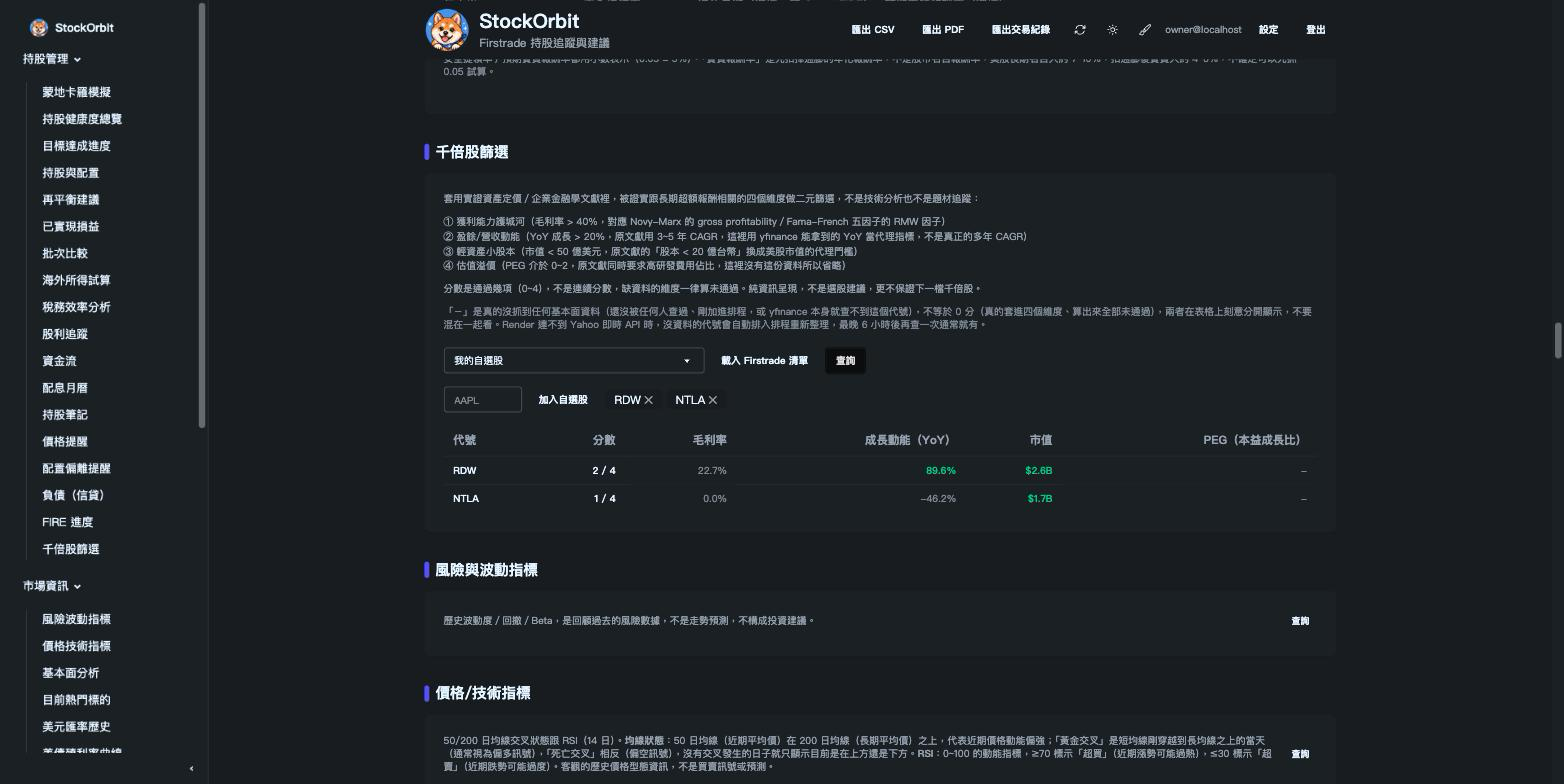
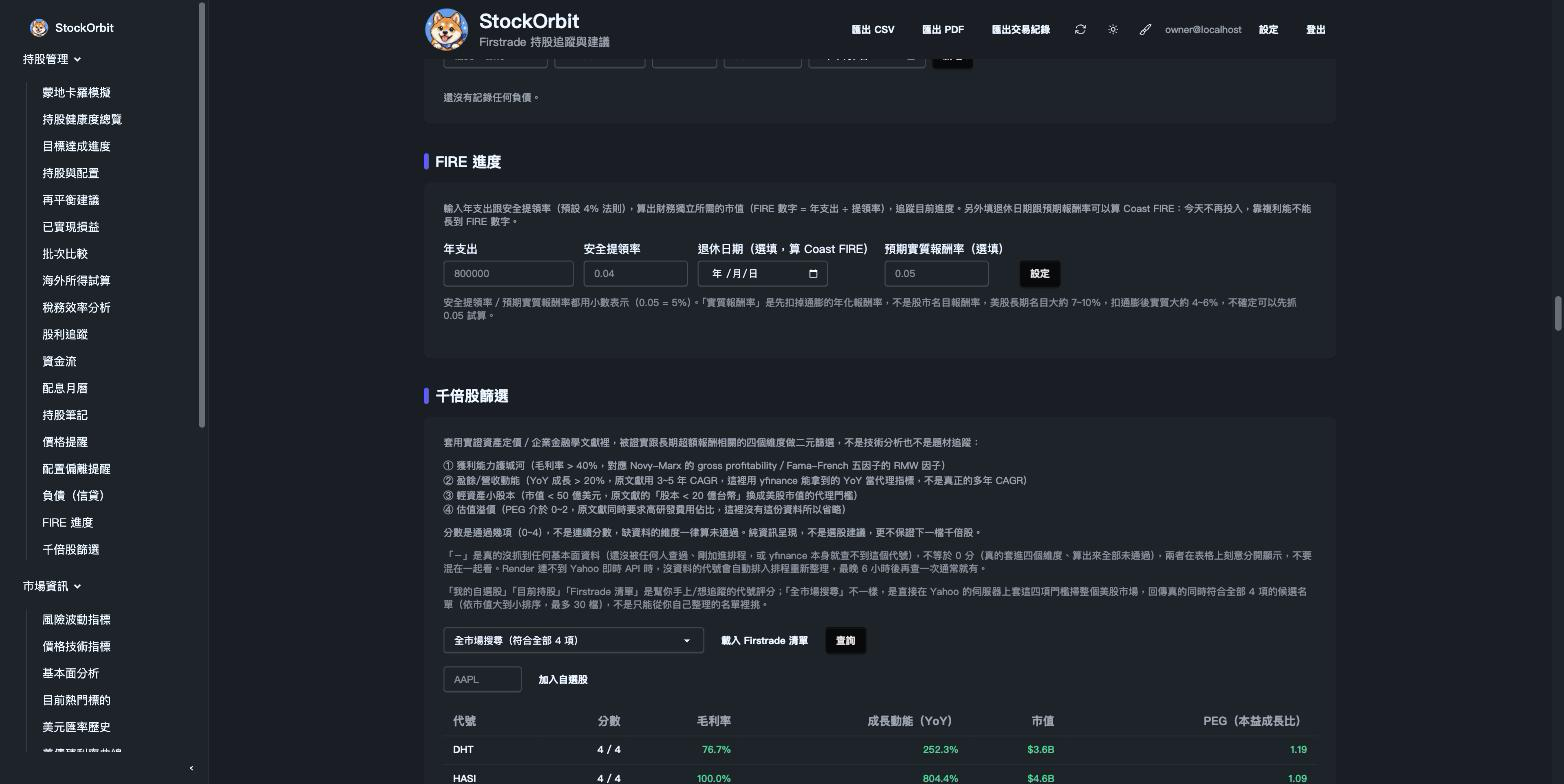
千倍股篩選新增「全市場搜尋」（issue #356） (#357)
使用者回報：千倍股篩選只能評分自己整理的清單（自選股/持股/Firstrade
清單），但一開始的需求是「根據最新的狀況找到所有股票裡符合千倍股條
件的」- 應該要有能掃全市場的功能，不是只能從自己手動整理的名單裡挑。

yfinance 的 EquityQuery screener 實際支援這次篩選用到的所有欄位
（grossprofitmargin.lasttwelvemonths、intradaymarketcap、
totalrevenues1yrgrowth.lasttwelvemonths、pegratio_5y），可以把四項
門檻直接組成一個查詢丟給 Yahoo 的伺服器端篩選，不用自己抓全市場報價
回來算：

- app/infrastructure/market_data.py 新增 screen_equities()（唯一
  import yfinance 的地方，同既有慣例）。
- app/domain/screening/moonshot.py 新增 market_screen_symbols()，把
  這個檔案既有的門檻常數（0.4）轉成 Yahoo screener 要的百分比尺度
  （40）。
- 新增 /api/moonshot-market-screen 端點，掃到的候選代號走跟清單篩選
  同一套評分/快取/顯示流程（抽出共用的 _score_symbols_with_fundamentals()）。
- 清單下拉選單多一個「全市場搜尋（符合全部 4 項）」選項。

實測：3 秒內掃出真實的 4/4 候選名單（DHT、HASI、SEZL 等），確認可行。

diff --git a/app/templates/sections/moonshot_screen.html b/app/templates/sections/moonshot_screen.html
@@ -18,11 +18,15 @@
       <p class="text-xs opacity-50 mt-1">
         「－」是真的沒抓到任何基本面資料（還沒被任何人查過、剛加進排程，或 yfinance 本身就查不到這個代號），不等於 0 分（真的套進四個維度、算出來全部未通過），兩者在表格上刻意分開顯示，不要混在一起看。Render 連不到 Yahoo 即時 API 時，沒資料的代號會自動排入排程重新整理，最晚 6 小時後再查一次通常就有。
       </p>
+      <p class="text-xs opacity-50 mt-1">
+        「我的自選股」「目前持股」「Firstrade 清單」是幫你手上/想追蹤的代號評分；「全市場搜尋」不一樣，是直接在 Yahoo 的伺服器上套這四項門檻掃整個美股市場，回傳真的同時符合全部 4 項的候選名單（依市值大到小排序，最多 30 檔），不是只能從你自己整理的名單裡挑。
+      </p>
 
       <div class="flex items-center gap-2 flex-wrap mt-3">
         <select id="moonshot-list-select" class="select select-bordered select-sm">
           <option value="watchlist">我的自選股</option>
           <option value="holdings">目前持股</option>
+          <option value="market">全市場搜尋（符合全部 4 項）</option>
         </select>
         <button type="button" onclick="loadFirstradeWatchlistOptions()" class="btn btn-ghost btn-sm">載入 Firstrade 清單</button>
         <button type="button" onclick="runMoonshotScreen()" class="btn btn-neutral btn-sm">查詢</button>
@@ -126,29 +130,44 @@ async function resolveMoonshotSymbols() {
 async function runMoonshotScreen() {
   const errorBox = document.getElementById('moonshot-error');
   const content = document.getElementById('moonshot-content');
+  const isMarket = document.getElementById('moonshot-list-select').value === 'market';
   errorBox.classList.add('hidden');
-  content.innerHTML = '<p class="opacity-60">查詢中…</p>';
+  content.innerHTML = isMarket
+    ? '<p class="opacity-60">掃全市場中，Yahoo 伺服器端篩選，通常幾秒內會回來…</p>'
+    : '<p class="opacity-60">查詢中…</p>';
 
-  let symbols;
-  try {
-    symbols = await resolveMoonshotSymbols();
-  } catch (e) {
-    content.innerHTML = '';
-    errorBox.textContent = e.message;
-    errorBox.classList.remove('hidden');
-    return;
+  let data;
+  if (isMarket) {
+    // 全市場：/api/moonshot-market-screen 自己用 yfinance 的 EquityQuery 在
+    // Yahoo 伺服器端篩出通過全部 4 項門檻的代號，再走跟清單查詢一樣的評分
+    // 流程，一次呼叫就有完整結果，不用像清單查詢那樣先解析代號清單。
+    const res = await fetch('/api/moonshot-market-screen');
+    data = await res.json();
+  } else {
+    let symbols;
+    try {
+      symbols = await resolveMoonshotSymbols();
+    } catch (e) {
+      content.innerHTML = '';
+      errorBox.textContent = e.message;
+      errorBox.classList.remove('hidden');
+      return;
+    }
+    if (!symbols.length) {
+      content.innerHTML = '<p class="text-sm opacity-60">這份清單目前沒有代號。</p>';
+      return;
+    }
+    const res = await fetch('/api/moonshot-screen?' + new URLSearchParams({ symbols: symbols.join(',') }));
+    data = await res.json();
   }
-  if (!symbols.length) {
-    content.innerHTML = '<p class="text-sm opacity-60">這份清單目前沒有代號。</p>';
-    return;
-  }
-
-  const res = await fetch('/api/moonshot-screen?' + new URLSearchParams({ symbols: symbols.join(',') }));
-  const data = await res.json();
   if (data.error) {
     content.innerHTML = '';
     errorBox.textContent = data.error;
     errorBox.classList.remove('hidden');
+    return;
+  }
+  if (!data.results.length) {
+    content.innerHTML = '<p class="text-sm opacity-60">目前市場上沒有同時符合全部 4 項門檻的代號。</p>';
     return;
   }
 

diff --git a/app/interface/http.py b/app/interface/http.py
@@ -74,7 +74,7 @@ from app.domain.analytics.scenario import simulate_market_drop
 from app.domain.analytics import stock_detail
 from app.domain.analytics.technical_indicators import compute_technical_indicators
 from app.domain.analytics.trending import SCREENERS, trending_tickers
-from app.domain.screening.moonshot import rank_moonshot_candidates
+from app.domain.screening.moonshot import market_screen_symbols, rank_moonshot_candidates
 
 async def _bind_request_user(request: Request) -> None:
     """App-level dependency: publish the middleware-loaded user into the
@@ -1339,11 +1339,11 @@ def get_firstrade_watchlist_symbols(list_id: int, request: Request):
     return JSONResponse({"symbols": symbols})
 
 
-@app.get("/api/moonshot-screen")
-def moonshot_screen(symbols: str):
-    symbol_list = sorted({s.strip().upper() for s in symbols.split(",") if s.strip()})
-    if not symbol_list:
-        return JSONResponse({"error": "請至少提供一個代號"}, status_code=400)
+def _score_symbols_with_fundamentals(symbol_list: list[str]) -> list[dict]:
+    """Shared by /api/moonshot-screen and /api/moonshot-market-screen: live
+    fetch with cache fallback (same pattern as every other fundamentals-
+    driven endpoint), then score. Registers never-seen symbols for the
+    scheduled cache refresh rather than leaving them permanently blank."""
     live = fetch_fundamentals(symbol_list)
     with Repositories() as repo:
         fundamentals_by_symbol = {}
@@ -1359,7 +1359,26 @@ def moonshot_screen(symbols: str):
             fundamentals_by_symbol[symbol] = fields
         if newly_registered:
             github_actions.trigger_fundamentals_refresh()
-    return JSONResponse({"results": rank_moonshot_candidates(fundamentals_by_symbol)})
+    return rank_moonshot_candidates(fundamentals_by_symbol)
+
+
+@app.get("/api/moonshot-screen")
+def moonshot_screen(symbols: str):
+    symbol_list = sorted({s.strip().upper() for s in symbols.split(",") if s.strip()})
+    if not symbol_list:
+        return JSONResponse({"error": "請至少提供一個代號"}, status_code=400)
+    return JSONResponse({"results": _score_symbols_with_fundamentals(symbol_list)})
+
+
+@app.get("/api/moonshot-market-screen")
+def moonshot_market_screen():
+    try:
+        symbol_list = market_screen_symbols(limit=30)
+    except Exception as e:
+        return JSONResponse({"error": f"全市場篩選失敗：{e}"}, status_code=400)
+    if not symbol_list:
+        return JSONResponse({"results": []})
+    return JSONResponse({"results": _score_symbols_with_fundamentals(symbol_list)})
 
 
 @app.get("/api/price-alerts")

diff --git a/tests/test_moonshot_screen.py b/tests/test_moonshot_screen.py
@@ -1,9 +1,18 @@
 import sys
 from pathlib import Path
+from unittest.mock import patch
 
 sys.path.insert(0, str(Path(__file__).resolve().parent.parent))
 
-from app.domain.screening.moonshot import rank_moonshot_candidates, score_moonshot
+from app.domain.screening.moonshot import (
+    GROSS_MARGIN_THRESHOLD,
+    GROWTH_THRESHOLD,
+    PEG_MAX,
+    SMALL_CAP_THRESHOLD,
+    market_screen_symbols,
+    rank_moonshot_candidates,
+    score_moonshot,
+)
 
 
 def demo():
@@ -55,6 +64,25 @@ def demo():
     })
     assert [r["symbol"] for r in ranked] == ["BBB", "ZZZ", "AAA"]
     assert ranked[0]["score"] == 4 and ranked[-1]["score"] == 3
+
+    # market_screen_symbols (issue #356): delegates to the infrastructure
+    # layer's yfinance EquityQuery wrapper, converting this module's decimal
+    # thresholds (0.4) to the percentage scale Yahoo's screener expects (40).
+    with patch("app.infrastructure.market_data.screen_equities") as mock_screen:
+        mock_screen.return_value = [{"symbol": "INOD"}, {"symbol": "RDW"}, {"symbol": None}]
+        symbols = market_screen_symbols(limit=15)
+    assert symbols == ["INOD", "RDW"]  # a quote with no symbol is dropped, not crashed on
+    call_kwargs = mock_screen.call_args.kwargs
+    assert call_kwargs["count"] == 15
+    filters = dict((f[0], f) for f in call_kwargs["filters"])
+    assert filters["grossprofitmargin.lasttwelvemonths"] == (
+        "grossprofitmargin.lasttwelvemonths", "gt", GROSS_MARGIN_THRESHOLD * 100,
+    )
+    assert filters["intradaymarketcap"] == ("intradaymarketcap", "lt", SMALL_CAP_THRESHOLD)
+    assert filters["totalrevenues1yrgrowth.lasttwelvemonths"] == (
+        "totalrevenues1yrgrowth.lasttwelvemonths", "gt", GROWTH_THRESHOLD * 100,
+    )
+    assert filters["pegratio_5y"] == ("pegratio_5y", "btwn", (0, PEG_MAX))
 
 
 if __name__ == "__main__":

diff --git a/app/domain/screening/moonshot.py b/app/domain/screening/moonshot.py
@@ -78,3 +78,29 @@ def rank_moonshot_candidates(fundamentals_by_symbol: dict[str, dict]) -> list[di
     """幫一批代號評分，依分數高到低排序（同分用代號字母序，排序穩定）。"""
     results = [{"symbol": symbol, **score_moonshot(f)} for symbol, f in fundamentals_by_symbol.items()]
     return sorted(results, key=lambda r: (-r["score"], r["symbol"]))
+
+
+def market_screen_symbols(limit: int = 30) -> list[str]:
+    """掃全市場找出真的通過全部四項門檻的代號（issue #356），不是只能評分
+    使用者自己清單裡的代號 - 直接把這裡的門檻常數套進 yfinance 的
+    EquityQuery，Yahoo 自己的伺服器端做篩選（不是抓全市場報價回來自己算），
+    一次撈出真正的候選名單，依市值大到小排序。
+
+    Yahoo screener 的數值欄位用的是百分比整數（40 代表 40%），跟這個檔案
+    其他地方用小數（0.4）不同，這裡轉換一次。拿到的代號清單還是要再走一次
+    fetch_fundamentals()/快取（跟清單篩選共用同一條路徑）才能顯示實際數字
+    - Yahoo screener 回傳的 quote 物件本身不含 grossMargins/pegRatio 這些
+    用來篩選的欄位。
+    """
+    from app.infrastructure import market_data
+
+    quotes = market_data.screen_equities(
+        filters=[
+            ("grossprofitmargin.lasttwelvemonths", "gt", GROSS_MARGIN_THRESHOLD * 100),
+            ("intradaymarketcap", "lt", SMALL_CAP_THRESHOLD),
+            ("totalrevenues1yrgrowth.lasttwelvemonths", "gt", GROWTH_THRESHOLD * 100),
+            ("pegratio_5y", "btwn", (0, PEG_MAX)),
+        ],
+        count=limit,
+    )
+    return [q["symbol"] for q in quotes if q.get("symbol")]

diff --git a/app/infrastructure/market_data.py b/app/infrastructure/market_data.py
@@ -73,3 +73,27 @@ def search_symbols(query: str, max_results: int = 8) -> list:
 
 def screen(screener: str, count: int = 10) -> list:
     return yf.screen(screener, count=count).get("quotes", [])
+
+
+# Major US listing venues only (excludes OTC/pink-sheet codes like PNK/OQB/
+# OQX/BTS/YHD/NAE/CXI/OEM) - this app is a US-broker (Firstrade) tracker, so
+# thinly-traded OTC names aren't useful screen candidates.
+_US_EXCHANGES = ["NMS", "NYQ", "NGM", "NCM", "ASE", "PCX"]
+
+
+def screen_equities(filters: list[tuple[str, str, object]], count: int = 30) -> list:
+    """Server-side equity screen via yfinance's EquityQuery (issue #356) -
+    Yahoo filters across its whole market itself, not "fetch everything and
+    filter locally". `filters` is `[(field, operator, value), ...]`, ANDed
+    together; operator is 'gt'/'lt'/'btwn' (value is a tuple for btwn).
+    Returns the raw quote dicts (caller picks what it needs, e.g. `symbol`).
+    """
+    from yfinance import EquityQuery
+
+    clauses = [EquityQuery("is-in", ["exchange", *_US_EXCHANGES])]
+    for field, operator, value in filters:
+        operand = [field, *value] if operator == "btwn" else [field, value]
+        clauses.append(EquityQuery(operator, operand))
+    query = EquityQuery("and", clauses)
+    result = yf.screen(query, count=count, sortField="intradaymarketcap", sortAsc=False)
+    return result.get("quotes", [])

diff --git a/CHANGELOG.md b/CHANGELOG.md
@@ -4,6 +4,10 @@
 
 摘要版功能總覽請看 [README](README.md#功能)。
 
+## 2026-10-01（千倍股篩選新增「全市場搜尋」）
+
+- 使用者回報（issue #356）：千倍股篩選只能評分自己整理的清單（自選股/持股/Firstrade 清單），但原本的需求是「根據最新的狀況找到所有股票裡符合條件的」，應該要能掃全市場，不是只能套在自己的清單上。查了 yfinance 的 `EquityQuery` screener，發現它實際支援這次篩選用到的所有欄位（`grossprofitmargin.lasttwelvemonths`、`intradaymarketcap`、`totalrevenues1yrgrowth.lasttwelvemonths`、`pegratio_5y`），可以把四項門檻直接組成一個查詢丟給 Yahoo 的伺服器端篩選，不用自己抓全市場報價回來算。新增 `market_data.screen_equities()`（唯一 import yfinance 的地方，同既有慣例）跟 `moonshot.market_screen_symbols()`，新增 `/api/moonshot-market-screen` 端點，清單下拉選單多一個「全市場搜尋（符合全部 4 項）」選項。實測：3 秒內掃出真實的 4/4 候選名單（DHT、HASI、SEZL 等），確認可行
+
 ## 2026-10-01（千金股篩選改名千倍股；分清楚「沒資料」跟「0 分」）
 
 - 使用者回報兩點（issue #354）：① 改叫「千倍股」，不要用「千金股」（台股特定用語）；② 查詢結果一片「－」看不懂是怎麼回事——這其實是 Render 連不到 Yahoo 即時 API，又剛好是第一次查這些代號（還沒被任何人查過、沒有快取可退回）時會出現的正常狀況，之前完全沒有說明，看起來就像功能壞掉。改名全站生效（`千金股` → `千倍股`）；表格補上「尚無資料」跟真的 0 分（四項都套進去算出來未通過）的視覺區分，沒資料的列加上提示文字說明原因（已排入排程重新整理，稍後再查通常就有）；說明段落的 ①②③④ 改成每項各自一行，不要擠在同一段落裡
